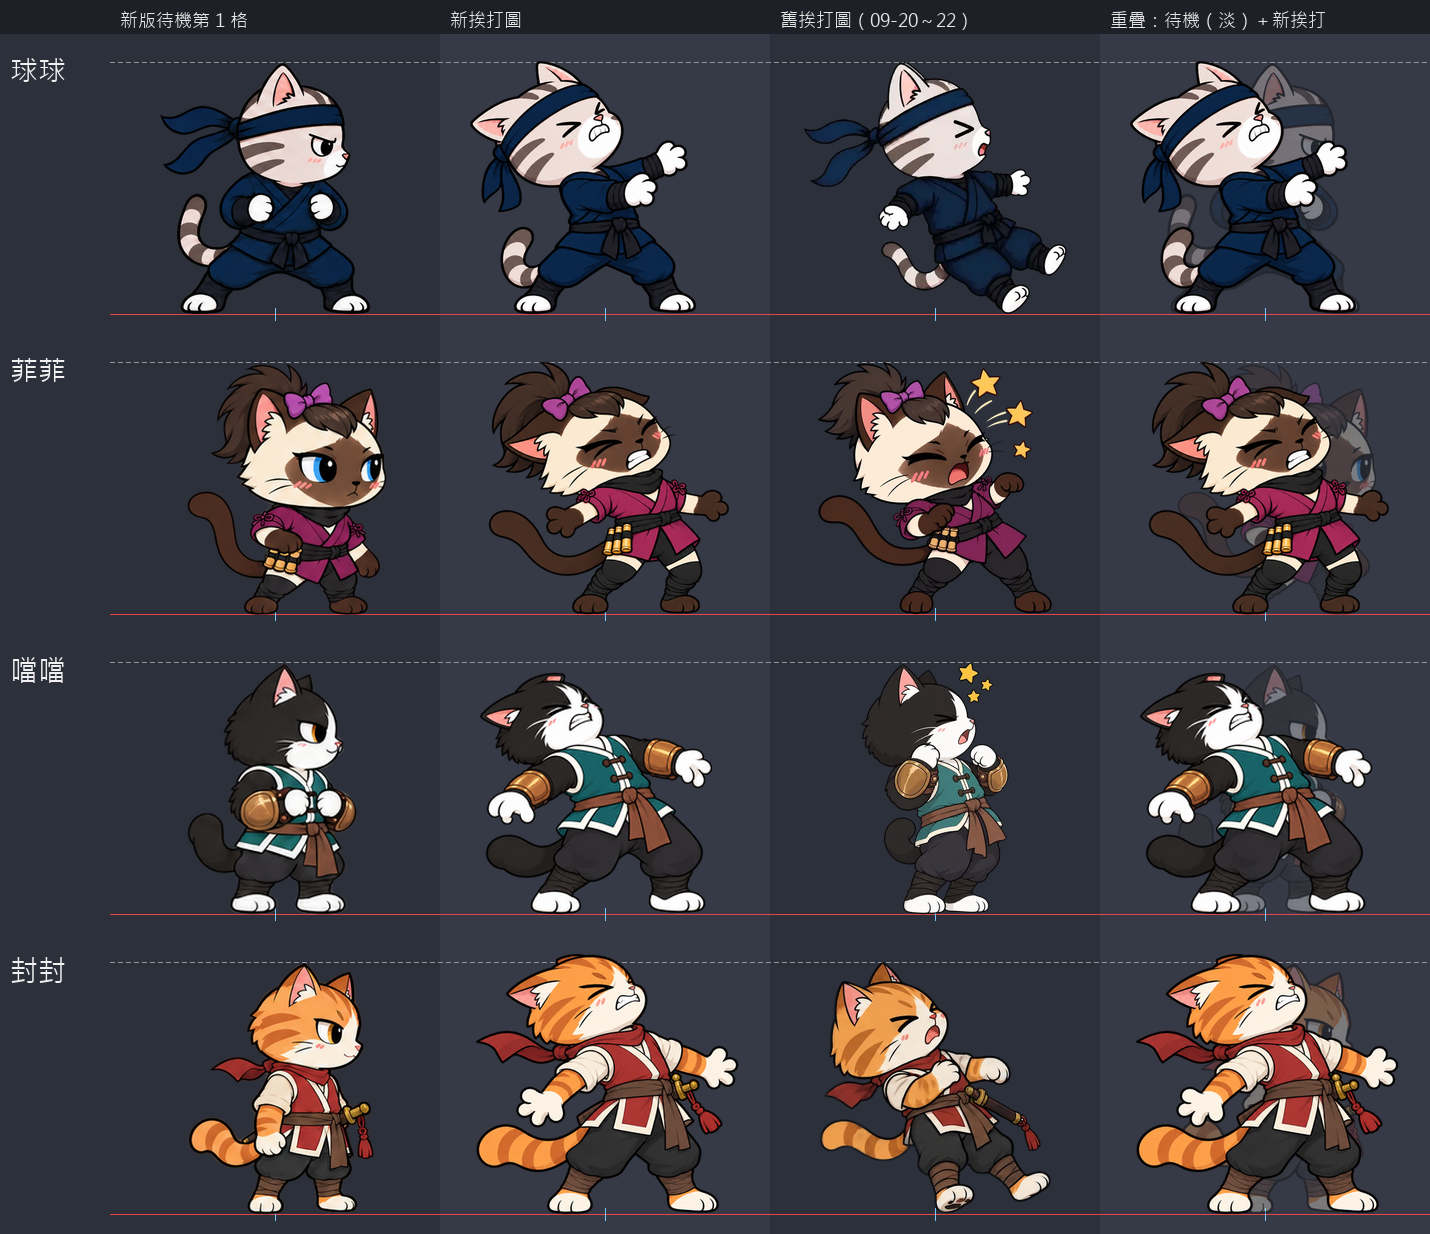
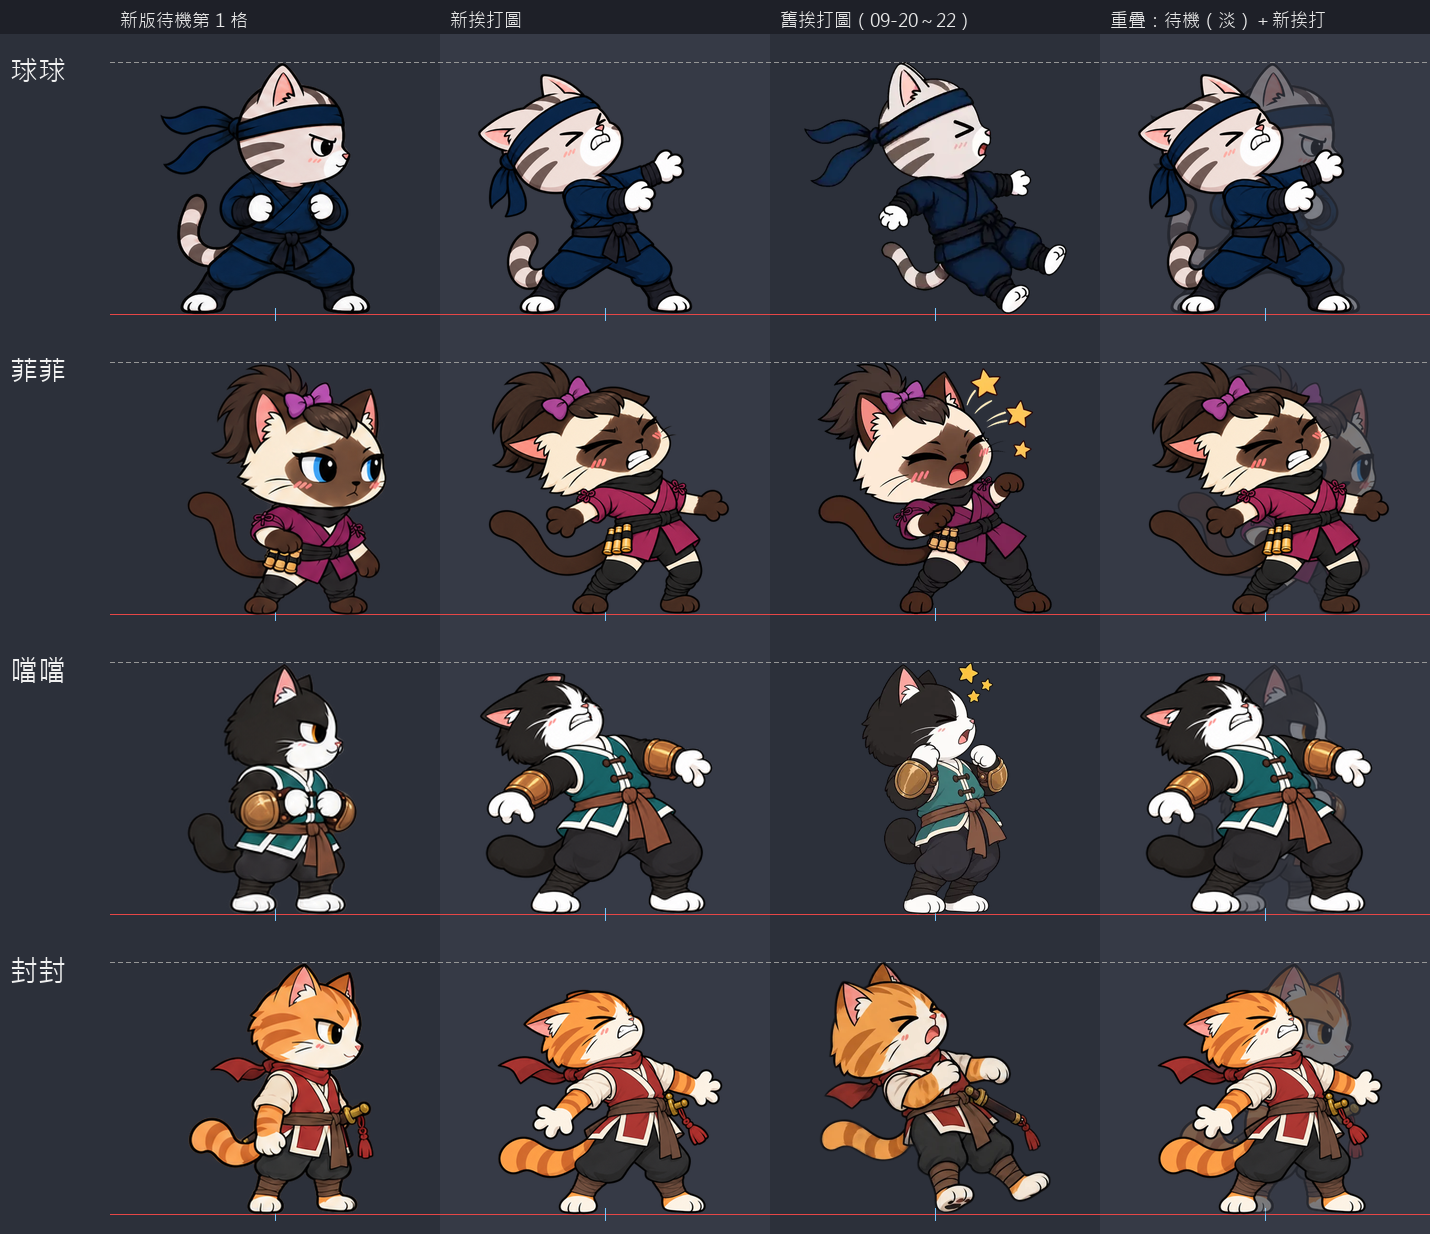
挨打立繪大小修正：封封 ×0.86、球球 ×0.95，閘門改守修正倍率
- 原本只看外框身高（±10%），封封外框 1.035 倍看似合格，頭和身體其實大一成五左右
  （往後仰、膝蓋彎，外框本來就該變矮）；球球頭略大約 5%。人眼把挨打的頭轉正、
  跟待機同比例並排，照結果訂倍率：封封 0.86（0.84／0.86／0.88 比過）、球球 0.95，
  菲菲、噹噹 1.00（兩張圖一個位元都沒變）
- 打包工具加 SIZE_FIX：套在「照參考圖比例換算」之後，解析度仍對齊各自待機圖集、無損；
  腳底定位點與兩腳中點照修正後重算（兩腳中點仍跟待機一致）
- 閘門：生圖外框比例（修正前 0.90～1.10）只擋整張畫錯比例；修正後外框 0.80～1.10 只當防呆；
  修正倍率本身限 0.80～1.10
- 往左伸出上限 136 → 130：球球修正後 128.2，連線站左邊也不會被切
- 測試改守修正倍率：資料檔的 sizeFix 要等於測試記的值，畫出來的外框身高要等於
  「生圖時畫的身高 × 修正倍率」（±1.5%）；拿掉修正重新打包、或只改資料檔倍率都會變紅（反向驗證過）
- 新檔：球球 92→85 KB、封封 85→67 KB；聯絡表重出

diff --git a/tests/ui/qiuqiu_motion.test.ts b/tests/ui/qiuqiu_motion.test.ts
@@ -154,7 +154,7 @@ describe('球球全身動作畫布', () => {
     for (const elapsed of [0, 200, 500, 649]) {
       step(elapsed);
       expect((lastDraw()[0] as HTMLImageElement).src).toContain('assets/motion/qiuqiu/hit_recoil.webp');
-      expect(lastDraw().slice(1, 5)).toEqual([0, 0, 366, 410]);
+      expect(lastDraw().slice(1, 5)).toEqual([0, 0, 347, 390]);
     }
     expect(qiuqiuMotionDuration('hurt')).toBe(650);
     step(650);

diff --git a/tools/pack_hit_recoil_motion.py b/tools/pack_hit_recoil_motion.py
@@ -8,9 +8,16 @@
      逐格資料寫進 `src/ui/hit-recoil-motion-data.json`，量到的數字寫進 `docs/hit-recoil-motion-assets.json`。
 
 **大小怎麼換算**：生圖時參考圖①是新版待機第 1 格、站高 60% 畫布（`gen_hit_recoil_art.py` 的
-`CHAR_HEIGHT`），新圖照同一個版面畫。所以「畫布高 × 60%」就是遊戲裡的 252 單位，挨打圖直接照這個比例換算，
+`CHAR_HEIGHT`），新圖照同一個版面畫。所以「畫布高 × 60%」就是遊戲裡的 252 單位，挨打圖先照這個比例換算，
 不另外拉成 252——挨打時身體往後仰，本來就比站著矮一點，硬拉成一樣高反而會讓整隻貓變大。
-檢查只擋「差超過一成」（使用者規格：身高與新版待機一致 ±10%）。
+
+**再乘一個每隻的大小修正（`SIZE_FIX`，2026-09-22 下午）**：生圖端不一定照參考圖的大小畫。
+第一版只看外框身高（±10%），封封外框是待機的 1.035 倍、看起來合格，實際上頭和身體都大了一成五左右——
+往後仰、膝蓋彎，外框本來就該變矮，外框一樣高代表身體畫大了。**外框身高量不出身體大小**，
+所以改成把挨打的頭轉正、跟待機的頭同比例並排比（`docs/審查報告/挨打大小修正_2026-09-22.png`），
+照這個結果訂每隻的倍率。挨打的姿勢與表情跟待機差太多，自動比對頭部大小不準（試過帶遮罩的顏色比對、
+特徵點比對、輪廓比對，挨打圖的吻合度都偏低、倍率常卡在搜尋邊界），所以倍率是人眼並排訂的、寫死在這裡，
+測試（`tests/ui/hit_recoil_motion.test.ts`）守住它：拿掉修正、或只改資料檔不改這裡，測試會變紅。
 
 **腳底怎麼對齊**：量兩張圖「最底下那一小條」（腳掌踩地的範圍）的左右中點。
 新版待機的定位點不一定在兩腳正中間（菲菲的定位點是生圖格子的中心，比兩腳中點偏左一點），
@@ -47,15 +54,26 @@ NATIVE_HEIGHT = 252
 # 2026-09-22 第一版存成 2 倍，比待機清楚、檔案也大（135～200 KB）；挨打是從待機直接切過去的，
 # 兩張清晰度一致比較不跳，檔案也小三到七成。壓縮方式照其他逐格動作圖：133 張全部是無損（VP8L）
 PAD = 2                      # 裁切外框多留的透明邊（反鋸齒那一圈）
-HEIGHT_RATIO = (0.90, 1.10)  # 挨打圖站高 ÷ 新版待機站高（同一個比例尺下）
+# 每隻的大小修正（乘在「照參考圖比例換算」之後）。訂法見檔頭；要改先重出並排圖再改
+SIZE_FIX = {
+    'qiuqiu': 0.95,    # 頭略大（約 5%）
+    'feifei': 1.00,
+    'dangdang': 1.00,  # 銅護臂面積比 1.00，頭與身體都對得上
+    'fengfeng': 0.86,  # 頭與褲子都大一成五左右；0.84／0.86／0.88 並排比過，0.86 最接近
+}
+# 生圖端有沒有照參考圖的版面畫：外框身高 ÷ 參考圖裡待機的外框身高（修正前）。這條只擋「整張畫錯比例」，
+# 不是大小對不對的判準（大小看上面的 SIZE_FIX）
+DRAWN_HEIGHT_RATIO = (0.90, 1.10)
+# 修正後的外框身高 ÷ 待機外框身高：只當防呆（往後仰、膝蓋彎會比待機矮，封封修正後是 0.89）
+SHOWN_HEIGHT_RATIO = (0.80, 1.10)
 MAIN_BODY = 0.97             # 最大一塊要佔全部不透明像素的比例：低於這個就是多畫了星星、特效或第二隻貓
 EDGE = 0.01                  # 角色離畫布邊至少留這麼多（比例）；貼邊代表耳朵、尾巴可能被切掉
 FOOT_BAND = 0.06             # 「腳底那一條」取角色高度最底下的 6%
 # 定位點左邊最多伸出去幾個遊戲單位。主角站在戰場最左邊：單人時腳底離畫面左緣 150（`enemylayout.ts` 的
 # `playerLeft` 30＋站位框一半 120），連線左邊那位只有 130；舞台 `overflow: hidden`，伸出去的部分會被切掉。
-# 球球第一版伸到 197，頭巾尾巴在實機截圖裡被切掉一截；再生五次，合格的最好一張是 135.5（第 6 次，頭巾尾巴下垂）：
-# 單人不切、連線左邊那位切掉約 5 像素，跟舊挨打立繪（最多伸 136）一樣。上限就放在選定的這張
-LEFT_REACH = 136
+# 球球第一版伸到 197，頭巾尾巴在實機截圖裡被切掉一截；再生五次，合格的最好一張是 135.5（第 6 次，頭巾尾巴下垂）。
+# 大小修正（×0.95）之後是 128.8：連線左邊那位也不會被切。上限就放在 130
+LEFT_REACH = 130
 
 
 def sha(path: Path) -> str:
@@ -106,19 +124,27 @@ def check(hero: str, path: Path) -> tuple[Image.Image, dict, dict]:
         raise ArtError(f'{hero}: 最大一塊只佔 {main:.1%}，旁邊多畫了東西（星星、特效或另一隻貓）')
     ref_height = CHAR_HEIGHT * height          # 參考圖裡新版待機的站高＝遊戲裡的 252 單位
     ratio = (y1 - y0 + 1) / ref_height
-    if not HEIGHT_RATIO[0] <= ratio <= HEIGHT_RATIO[1]:
-        raise ArtError(f'{hero}: 站高是新版待機的 {ratio:.3f} 倍，超出 {HEIGHT_RATIO[0]}～{HEIGHT_RATIO[1]}')
+    if not DRAWN_HEIGHT_RATIO[0] <= ratio <= DRAWN_HEIGHT_RATIO[1]:
+        raise ArtError(f'{hero}: 生圖的外框身高是參考圖待機的 {ratio:.3f} 倍，超出 '
+                       f'{DRAWN_HEIGHT_RATIO[0]}～{DRAWN_HEIGHT_RATIO[1]}：沒有照參考圖的版面畫')
+    fix = SIZE_FIX[hero]
+    if not 0.80 <= fix <= 1.10:
+        raise ArtError(f'{hero}: 大小修正 {fix} 超出 0.80～1.10，這已經不是微調，要重生')
 
-    # 裁掉空白（多留一圈反鋸齒），縮成跟該角色新版待機圖集一樣的解析度
+    # 裁掉空白（多留一圈反鋸齒），套上大小修正，縮成跟該角色新版待機圖集一樣的解析度
     idle = idle_reference(hero)
     box = (max(0, x0 - PAD), max(0, y0 - PAD), min(width, x1 + PAD + 1), min(height, y1 + PAD + 1))
     crop = image.crop(box)
-    k = NATIVE_HEIGHT / idle['scale'] / ref_height
+    units_per_px = NATIVE_HEIGHT / ref_height * fix   # 生圖原檔一個像素＝幾個遊戲單位（已乘修正）
+    k = units_per_px / idle['scale']
     out = crop.resize((round(crop.width * k), round(crop.height * k)), Image.LANCZOS)
     rgba = np.array(out)
     rgba[rgba[..., 3] == 0, :3] = 0            # 完全透明的地方不留看不見的顏色（無損存檔會照存、白佔空間）
     out = Image.fromarray(rgba, 'RGBA')
-    scale = NATIVE_HEIGHT / ref_height * crop.height / out.height   # 成品一個像素＝幾個遊戲單位
+    scale = units_per_px * crop.height / out.height   # 成品一個像素＝幾個遊戲單位
+    shown = (y1 - y0 + 1) * units_per_px / idle['height']
+    if not SHOWN_HEIGHT_RATIO[0] <= shown <= SHOWN_HEIGHT_RATIO[1]:
+        raise ArtError(f'{hero}: 修正後外框身高是待機的 {shown:.3f} 倍，超出 {SHOWN_HEIGHT_RATIO[0]}～{SHOWN_HEIGHT_RATIO[1]}')
 
     mid, bottom, pieces = feet_mid(rgba[..., 3])
     offset = (idle['feetMid'] - idle['pivot'][0]) * idle['scale']   # 待機時兩腳中點在定位點右邊幾單位
@@ -127,9 +153,13 @@ def check(hero: str, path: Path) -> tuple[Image.Image, dict, dict]:
     if reach > LEFT_REACH:
         raise ArtError(f'{hero}: 往後伸出定位點左邊 {reach:.0f} 單位（上限 {LEFT_REACH}），站在戰場最左邊會被畫面切掉')
     frame = {'texture': f'assets/motion/{hero}/hit_recoil.webp', 'scale': scale,
-             'rect': [0, 0, out.width, out.height], 'pivot': pivot}
+             'rect': [0, 0, out.width, out.height], 'pivot': pivot,
+             # 下面兩個遊戲不讀，是給測試守大小修正用的（見檔頭）
+             'sizeFix': fix, 'drawnHeightRatio': round(ratio, 4)}
     metrics = {
+        'sizeFix': fix,
         'heightRatio': round(ratio, 3),
+        'shownHeightRatio': round(shown, 3),
         'heightUnits': round((bottom - int(np.flatnonzero((rgba[..., 3] > 16).any(axis=1))[0]) + 1) * scale, 1),
         'idleHeightUnits': round(idle['height'], 1),
         'widthUnits': round(out.width * scale, 1),
